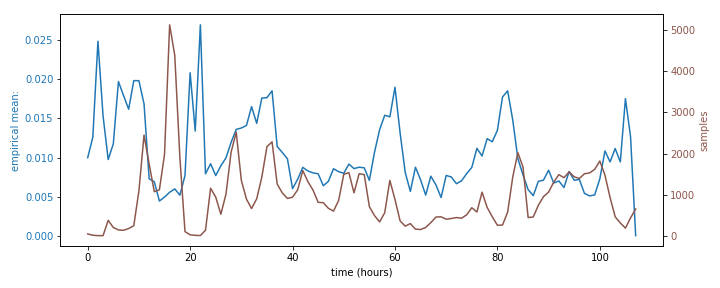
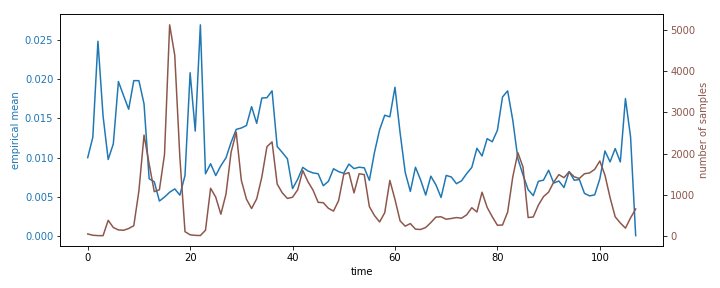
updated plots

Changed region(s): [[0.9472, 0.3125, 1.0, 0.5625], [0.0, 0.3125, 0.0306, 0.5938], [0.4583, 0.9062, 0.55, 0.9688]]

diff --git a/content/posts/gp-weighted-noise.md b/content/posts/gp-weighted-noise.md
@@ -45,10 +45,10 @@ standard deviation at each point of interest based on values of
 the target variable at the observed points. 
 
 Inference depends on the process kernel. Kernels can be combined
-by addition and multiplications, and most kernels are
+by addition and multiplication, and most kernels are
 parameterized by a small number of _hyperparameters_. The
 hyperparameters are inferred ('tuned'), e.g. by maximizing the
-likelihood of the training set.
+likelihood on the training set.
 
 
 ### White noise kernel
@@ -89,12 +89,12 @@ numbers of samples.
 ![Empirical mean and numbers of samples](/images/weighted-white/series-visits.png)  
 **Figure 1. Empirical means and numbers of samples.**
 
-We implemented this 'weighted noise' trick for the
+We implemented a weighted white noise kernel for the
 [scikit-learn](scikit-learn.org) version of Gaussian processes,
 using the
 [WhiteKernel](https://scikit-learn.org/stable/modules/generated/sklearn.gaussian_process.kernels.WhiteKernel.html)
 as the starting point and modifying the code to accept
-observation weights. Figure 2 compares forecasting with fixed
+observation weights. Figure 2 compares forecasting with uniform
 (orange) and weighted (green) noise. The weighted noise
 prediction gives much tighter confidence bounds, while still
 closely following the dynamics of the average visit value.
